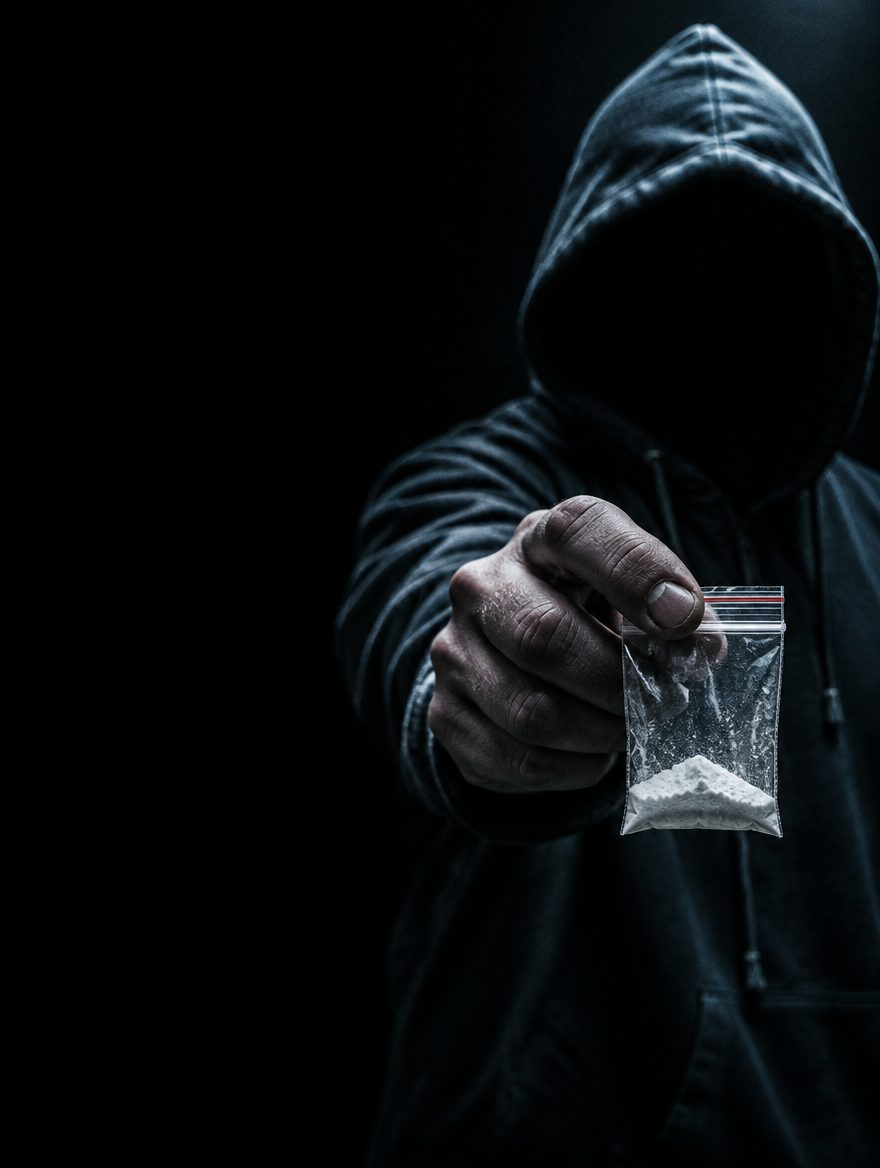
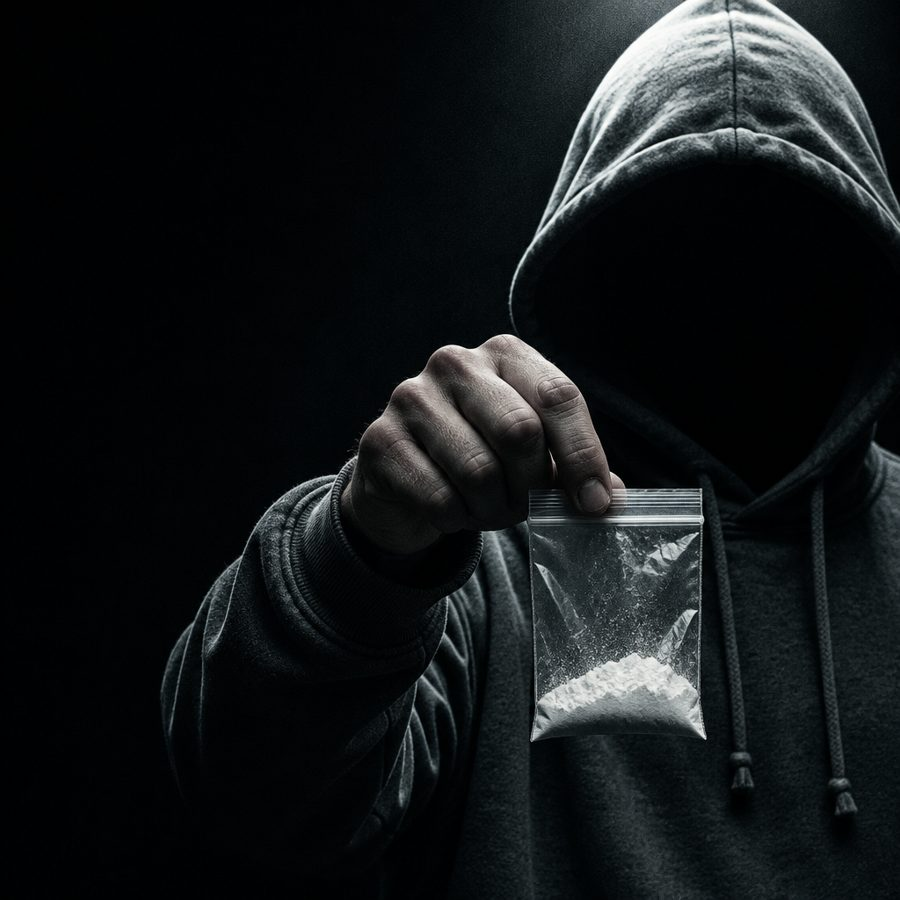
Narkocaching: mobile layout matched to mockup, new hero photo
Mobile is drawn on a 470px canvas and scaled to screen width so the
proportions follow the design; hero photo regenerated with the raised
hand composition; bigger map pins and product typography.

Claude-Session: https://claude.ai/code/session_01Rfvop9nuv8UTt1KV3e1ho9

Changed region(s): [[0.1534, 0.28, 1.0, 1.0], [0.5523, 0.0, 1.0, 0.3422], [0.9205, 0.0, 1.0, 0.0311]]

diff --git a/narkocaching/index.html b/narkocaching/index.html
@@ -142,26 +142,60 @@ body.locked{overflow:hidden}
 .small{font-size:.8rem;color:#666;margin-top:24px}
 
 @media (max-width:720px){
-  .hero{grid-template-columns:1fr}
-  .figure{position:absolute;inset:0 -16px auto auto;width:68%;min-height:0;height:460px;z-index:-1}
-  .figure img{right:-30px;top:10px;width:125%;opacity:.85}
-  .hero p{max-width:15rem;font-size:1.05rem}
-  .features{grid-template-columns:repeat(3,1fr)}
-  .feat{flex-direction:column;align-items:flex-start;padding:14px 10px;gap:6px}
-  .feat svg{width:30px;height:30px}
-  .feat h3{font-size:.9rem}
-  .feat p{font-size:.78rem}
-  .live{grid-template-columns:1fr}
-  .grid{grid-template-columns:1fr 1fr;gap:10px}
-  .card,.card:nth-child(4){grid-column:span 1;padding:12px;grid-template-columns:1fr}
-  .card .img{width:96px;height:72px}
-  .card h3{font-size:1.25rem}
-  .price{font-size:1.3rem}
-  .cart{width:48px;height:36px}
-  .card:nth-child(5){grid-column:1 / -1}
+  /* Mobile = the mockup, drawn on a 470px canvas and scaled to the screen width (see --z in script). */
+  .wrap{width:470px;max-width:none;padding:0 16px;zoom:var(--z,1)}
   .facts{grid-template-columns:1fr}
-  .brand-sub{letter-spacing:.12em;font-size:.6rem}
-  .banner .paper{padding:22px 54px 18px 24px}
+
+  header{padding:14px 0 4px;position:relative;z-index:2}
+  .brand{gap:8px}
+  .logo{width:52px;height:52px}
+  .brand-name{font-size:34px}
+  .brand-sub{font-size:7.6px;letter-spacing:.26em;margin-top:5px}
+  .burger{gap:5px;padding:4px}
+  .burger i{width:30px;height:3.5px}
+
+  .hero{display:block;min-height:0;padding-bottom:4px}
+  .figure{position:absolute;top:-78px;right:-34px;width:405px;height:405px;min-height:0;z-index:-1}
+  .figure img{position:absolute;inset:0;width:100%;height:100%;max-width:none;object-fit:cover;
+    -webkit-mask-image:linear-gradient(to right,transparent 0,#000 30%),linear-gradient(to bottom,#000 70%,transparent);
+            mask-image:linear-gradient(to right,transparent 0,#000 30%),linear-gradient(to bottom,#000 70%,transparent)}
+  .hero h1{font-size:40px;line-height:1.02;margin:10px 0 0 12px;transform:rotate(-3deg);transform-origin:left}
+  .underline{width:150px;height:4px;margin:8px 0 12px 16px;transform:rotate(-3deg)}
+  .hero p{font-size:13px;line-height:1.38;max-width:146px;margin:0 0 14px 20px;color:#e4e4e4}
+  .cta{font-size:16px;padding:9px 16px;gap:10px;border-radius:7px;margin-left:16px;box-shadow:0 0 18px var(--red-glow)}
+
+  .features{margin:12px 16px 10px;border-radius:9px}
+  .feat{flex-direction:row;align-items:center;gap:8px;padding:10px 8px}
+  .feat svg{width:26px;height:26px}
+  .feat h3{font-size:12.5px}
+  .feat p{font-size:10px;line-height:1.25}
+
+  .live{grid-template-columns:1.6fr 1fr;gap:6px;margin:0 0 0 0}
+  .stats{padding:10px 9px;border-radius:9px}
+  .stats h4{font-size:12px;margin-bottom:6px;gap:6px}
+  .dot{width:7px;height:7px}
+  .stat{gap:8px;padding:5px 0;font-size:10.5px;line-height:1.25}
+  .stat svg{width:16px;height:16px}
+  .stats .bar{height:2px;margin-top:6px}
+
+  .offer h2{font-size:27px;margin:10px 0 6px 16px}
+  .grid{grid-template-columns:repeat(6,1fr);gap:6px 6px;margin:0 8px}
+  .card,.card:nth-child(5){grid-column:span 2;padding:7px 8px 8px;border-radius:7px;
+    grid-template-columns:62px 1fr;gap:3px 6px}
+  .card:nth-child(4){grid-column:2 / span 2}
+  .card .img{width:62px;height:47px}
+  .card h3{font-size:15.5px;margin-top:6px}
+  .card .qty{font-size:11px}
+  .price{font-size:16px}
+  .cart{width:34px;height:23px;border-radius:5px;border-width:1.5px}
+  .cart svg{width:13px;height:13px}
+
+  .banner{margin:14px 0 8px}
+  .banner .paper{padding:16px 46px 12px 30px;margin:0 30px}
+  .banner .tag{font-size:13px;left:22px;top:-2px;padding:1px 8px}
+  .banner .txt{font-size:19px;margin-top:6px}
+  .banner .arrow{font-size:20px;right:18px}
+  footer{font-size:10px;padding:16px 0 30px}
 }
 
 /* ===== ORDER FLOW ===== */
@@ -175,10 +209,10 @@ body.locked{overflow:hidden}
 .cartbar .n{background:#fff;color:var(--red);border-radius:20px;padding:1px 9px;margin-right:8px;font-size:.85rem}
 .sheet-bg{position:fixed;inset:0;background:rgba(0,0,0,.7);z-index:35;opacity:0;visibility:hidden;transition:.25s}
 .sheet-bg.on{opacity:1;visibility:visible}
-.sheet{position:fixed;left:0;right:0;bottom:0;z-index:36;max-width:560px;margin:0 auto;max-height:92vh;overflow-y:auto;
+.sheet{visibility:hidden;position:fixed;left:0;right:0;bottom:0;z-index:36;max-width:560px;margin:0 auto;max-height:92vh;overflow-y:auto;
   background:#141416;border:1px solid var(--line);border-bottom:0;border-radius:20px 20px 0 0;
   padding:22px 18px calc(22px + env(safe-area-inset-bottom));transform:translateY(105%);transition:transform .3s ease}
-.sheet.on{transform:none}
+.sheet.on{transform:none;visibility:visible}
 .sheet .x{position:absolute;right:12px;top:10px;background:none;border:0;color:#aaa;font-size:1.8rem;line-height:1}
 .steps{display:flex;gap:6px;margin:0 36px 16px 0}
 .steps i{flex:1;height:4px;border-radius:2px;background:#2c2c31}
@@ -277,11 +311,11 @@ body.locked{overflow:hidden}
     <path d="M300 0c-60 40 40 90-30 140s-110 60-60 160" fill="none" stroke="#2c4a55" stroke-width="16" stroke-linecap="round"/>
     <text x="180" y="140" font-family="Anton,sans-serif" font-size="30" fill="#9a9aa2" letter-spacing="2">PRAHA</text>
     <g class="pins" filter="url(#glow)">
-      <g class="pin" data-hook="pin" transform="translate(110 70)"><path d="M0 0c-18 0-26 14-22 26L0 52l22-26C26 14 18 0 0 0z" fill="#c4151e"/><circle cx="0" cy="20" r="14" fill="#e4232d"/><path d="M-6 16l6-4 6 4v8l-6 4-6-4z" fill="none" stroke="#fff" stroke-width="2"/></g>
-      <g class="pin" data-hook="pin" transform="translate(330 30)"><path d="M0 0c-18 0-26 14-22 26L0 52l22-26C26 14 18 0 0 0z" fill="#c4151e"/><circle cx="0" cy="20" r="14" fill="#e4232d"/><path d="M-6 16l6-4 6 4v8l-6 4-6-4z" fill="none" stroke="#fff" stroke-width="2"/></g>
-      <g class="pin" data-hook="pin" transform="translate(100 190)"><path d="M0 0c-18 0-26 14-22 26L0 52l22-26C26 14 18 0 0 0z" fill="#c4151e"/><circle cx="0" cy="20" r="14" fill="#e4232d"/><path d="M-6 16l6-4 6 4v8l-6 4-6-4z" fill="none" stroke="#fff" stroke-width="2"/></g>
-      <g class="pin" data-hook="pin" transform="translate(370 170)"><path d="M0 0c-18 0-26 14-22 26L0 52l22-26C26 14 18 0 0 0z" fill="#c4151e"/><circle cx="0" cy="20" r="14" fill="#e4232d"/><path d="M-6 16l6-4 6 4v8l-6 4-6-4z" fill="none" stroke="#fff" stroke-width="2"/></g>
-      <g class="pin" data-hook="pin" transform="translate(260 225)"><path d="M0 0c-18 0-26 14-22 26L0 52l22-26C26 14 18 0 0 0z" fill="#c4151e"/><circle cx="0" cy="20" r="14" fill="#e4232d"/><path d="M-6 16l6-4 6 4v8l-6 4-6-4z" fill="none" stroke="#fff" stroke-width="2"/></g>
+      <g class="pin" data-hook="pin" transform="translate(110 70) scale(1.35)"><path d="M0 0c-18 0-26 14-22 26L0 52l22-26C26 14 18 0 0 0z" fill="#c4151e"/><circle cx="0" cy="20" r="14" fill="#e4232d"/><path d="M-6 16l6-4 6 4v8l-6 4-6-4z" fill="none" stroke="#fff" stroke-width="2"/></g>
+      <g class="pin" data-hook="pin" transform="translate(330 30) scale(1.35)"><path d="M0 0c-18 0-26 14-22 26L0 52l22-26C26 14 18 0 0 0z" fill="#c4151e"/><circle cx="0" cy="20" r="14" fill="#e4232d"/><path d="M-6 16l6-4 6 4v8l-6 4-6-4z" fill="none" stroke="#fff" stroke-width="2"/></g>
+      <g class="pin" data-hook="pin" transform="translate(100 190) scale(1.35)"><path d="M0 0c-18 0-26 14-22 26L0 52l22-26C26 14 18 0 0 0z" fill="#c4151e"/><circle cx="0" cy="20" r="14" fill="#e4232d"/><path d="M-6 16l6-4 6 4v8l-6 4-6-4z" fill="none" stroke="#fff" stroke-width="2"/></g>
+      <g class="pin" data-hook="pin" transform="translate(370 170) scale(1.35)"><path d="M0 0c-18 0-26 14-22 26L0 52l22-26C26 14 18 0 0 0z" fill="#c4151e"/><circle cx="0" cy="20" r="14" fill="#e4232d"/><path d="M-6 16l6-4 6 4v8l-6 4-6-4z" fill="none" stroke="#fff" stroke-width="2"/></g>
+      <g class="pin" data-hook="pin" transform="translate(260 225) scale(1.35)"><path d="M0 0c-18 0-26 14-22 26L0 52l22-26C26 14 18 0 0 0z" fill="#c4151e"/><circle cx="0" cy="20" r="14" fill="#e4232d"/><path d="M-6 16l6-4 6 4v8l-6 4-6-4z" fill="none" stroke="#fff" stroke-width="2"/></g>
     </g>
   </svg>
   <div class="stats">
@@ -414,6 +448,8 @@ body.locked{overflow:hidden}
 
 <script>
 (function(){
+  function fit(){ document.documentElement.style.setProperty('--z', window.innerWidth <= 720 ? (window.innerWidth/470).toFixed(4) : 1); }
+  fit(); window.addEventListener('resize', fit);
   var P = {
     koks:  {n:'Mouka', a:'koks',   price:4000, unit:'g',  q:[1,2,5],
       x:'Kokain z ulice bývá ředěný. Často se v něm najde levamisol, veterinární lék proti parazitům, který může zničit bílé krvinky. Kokain zvyšuje riziko infarktu a mrtvice i u mladých lidí bez potíží se srdcem.'},
